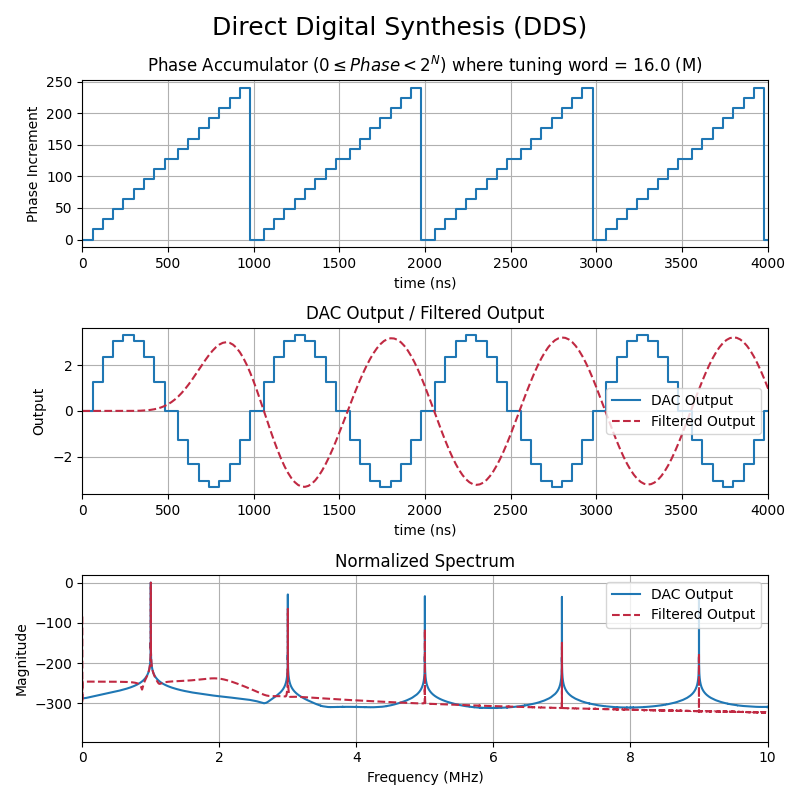
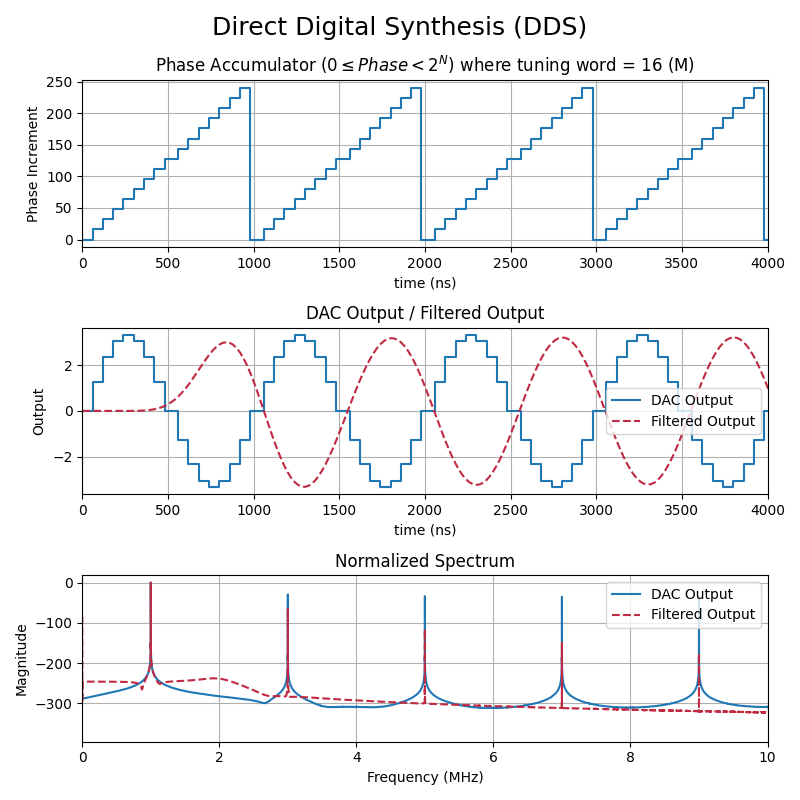
+ fix last phase / next phase desync'ed by one clock cycle in the simulation plot. I was passing the current address to the DAC while plotting the last address in the first subplot. This caused the DAC output to be shifted by M before plotting zero (the initial starting point), which is the first tr
+ updated plot figure to reflect this correction

Changed region(s): [[0.1875, 0.0625, 0.875, 0.0938]]

diff --git a/dds_00_pythonic_demo.py b/dds_00_pythonic_demo.py
@@ -25,8 +25,8 @@ def run_demo():
 
 def start():
     data = {
-        "time": [], "phase": [], "address": [], "output": [],
-        "filtered": [], "xf": [], "yf": [], "xf_f": [], "yf_f": []
+        "time": [], "phase": [], "output": [], "filtered": [],
+        "xf": [], "yf": [], "xf_f": [], "yf_f": []
     }
 
     fs = 50e6  # sampling frequency of simulation
@@ -44,8 +44,7 @@ def start():
     dt = (1 / fs) * 1e9  # time step in nanoseconds
 
     # RUN SIMULATION ===================================================================================================
-    last_phase = 0
-    rom_address = 0
+    phase_address = 0
     output = 0.0
 
     NCO = NUMERICALLY_CONTROLLED_OSCILLATOR(N=N, fosc=fosc)
@@ -55,14 +54,13 @@ def start():
 
     while time < tf:
         if RO.check_rollover(time, ((1 / fosc) * 1e9)):
-            last_phase, rom_address = NCO.phase_accumulator()
-            dac_code = sin_ROM(rom_address, dac_bit_depth)
-            output = dac(dac_code, dac_bit_depth)
+            phase_address = NCO.phase_accumulator()  # returns the last stored phase address
+            dac_code = sin_ROM(phase_address, dac_bit_depth)  # returns the dac code from lookup table
+            output = dac(dac_code, dac_bit_depth)  # returns the dac output value
 
         # log
         data["time"].append(time)
-        data["phase"].append(last_phase)
-        data["address"].append(rom_address)
+        data["phase"].append(phase_address)
         data["output"].append(output)
 
         # increment time
@@ -223,20 +221,19 @@ class NUMERICALLY_CONTROLLED_OSCILLATOR:
         If each entry is stored with k-bit accuracy, then the lookup table size in memory is (k*2^N)/8e9 [Gigabytes]
         """
         M = self.get_frequency_tuning_word()  # M is retrieved from the delta phase register
-        last_phase = self.get_phase_register()  # last phase retrieved from the phase accumulator register
+        last_phase_address = self.get_phase_register()  # last phase retrieved from the phase accumulator register
 
         # integrate the frequency tuning word (phase is the integral of frequency)
-        ram_address = (last_phase + M) % (2**self.N)
-        self.set_phase_register(ram_address)
+        next_address = (last_phase_address + M) % (2**self.N)
+        self.set_phase_register(next_address)
 
-        return last_phase, ram_address
+        return last_phase_address
 
 
 def plot(data, xt_limits, xf_limits, M=0):
     # log
     time = data["time"]
     phase = data["phase"]
-    address = data["address"]
     output = data["output"]
     filtered = data["filtered"]
 
